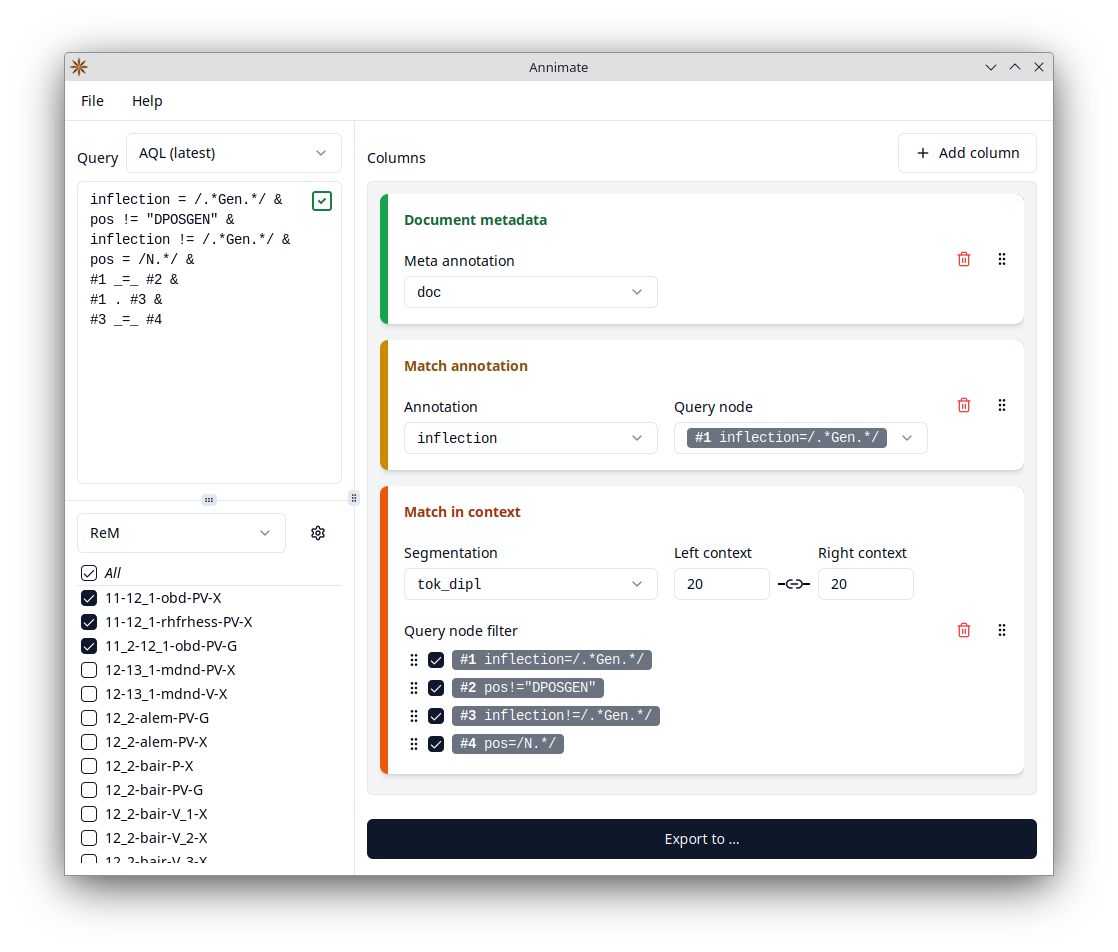
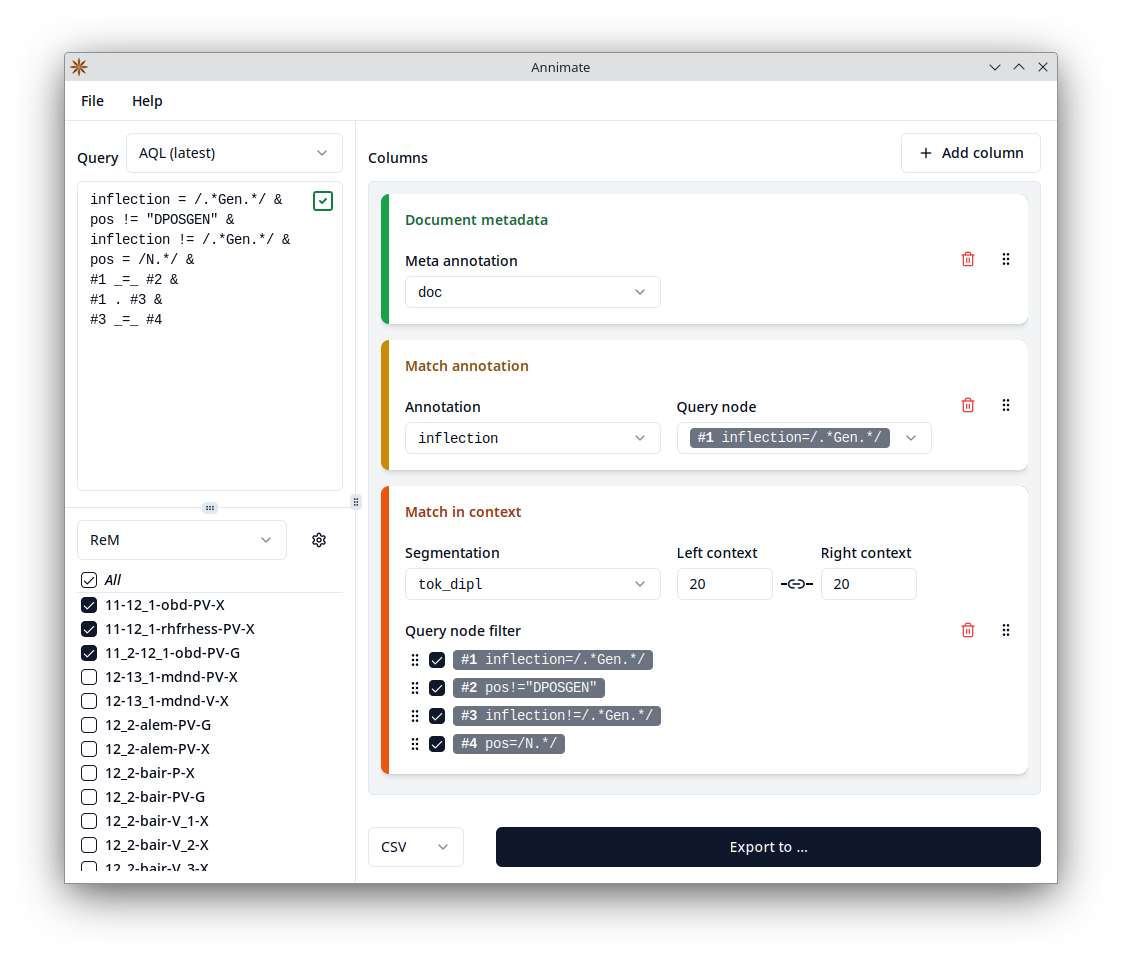
Add xlsx export format to documentation

diff --git a/README.md b/README.md
@@ -4,7 +4,7 @@ This is a tool for the comfortable export of query results (matches) from the AN
 
 It is meant as a supplement to the ANNIS web interface and focuses on file export (as opposed to visualization) of the results of an ANNIS query.
 
-It can currently produce CSV files with one row per match, showing the matched nodes in their context in a KWIC (Keyword in Context) format as well as additional annotations of the matched nodes and metadata on the corpus and document levels. It is similar in functionality to a combination of the ANNIS `TextColumnExporter` and `CSVExporter`, but tries to provide a friendlier user interface.
+It can currently produce a CSV or an Excel file with one row per match, showing the matched nodes in their context in a KWIC (Keyword in Context) format as well as additional annotations of the matched nodes and metadata on the corpus and document levels. It is similar in functionality to a combination of the ANNIS `TextColumnExporter` and `CSVExporter`, but tries to provide a friendlier user interface.
 
 Annimate makes heavy use of the [graphANNIS](https://github.com/korpling/graphANNIS) library by Thomas Krause.
 
@@ -80,13 +80,14 @@ This needs to be done only once per corpus.
 
 1. On the lower left of the Annimate main screen, select the corpora to query (optionally selecting a corpus set first).
 2. On the upper left, enter a query formulated in the [ANNIS Query Language](https://korpling.github.io/ANNIS/4.0/user-guide/aql/index.html) (AQL). Here you can also choose between the current version of AQL and the [compatibility mode](https://korpling.github.io/ANNIS/4.0/user-guide/aql/compatibility-mode.html) with older versions of ANNIS. Once a query is entered, the input field will show whether it is valid.
-3. On the right-hand side, configure the desired columns of the CSV file to produce (for details see below). You can add a new column by clicking on the "Add column" button. The columns can be reordered using drag and drop and removed by clicking on the corresponding button.
-4. Click on the "Export to ..." button and select a location for the CSV file. If the button is disabled, this means that the information you entered so far is incomplete.
-5. Wait until the export is finished, then click on the "Open folder" or "Open file" links to access the CSV file.
+3. On the right-hand side, configure the desired columns of the CSV/Excel file to produce (for details see below). You can add a new column by clicking on the "Add column" button. The columns can be reordered using drag and drop and removed by clicking on the corresponding button.
+4. Select whether you want to produce a CSV file (default) or an Excel file.
+5. Click on the "Export to ..." button and select a location for the file. If the button is disabled, this means that the information you entered so far is incomplete.
+6. Wait until the export is finished, then click on the "Open folder" or "Open file" links to access the file.
 
-### Types of CSV columns
+### Types of columns
 
-The following types of columns for the CSV file are available:
+The following types of columns are available:
 
 1. **Number**
 

diff --git a/CHANGELOG.md b/CHANGELOG.md
@@ -2,6 +2,10 @@
 
 ## [Unreleased] - (release date)
 
+### Added
+
+- Matches can now be exported either to comma-separated values (.csv) or Excel (.xlsx) files.
+
 ### Changed
 
 - Increased contrast of scrollbars on gray background.
